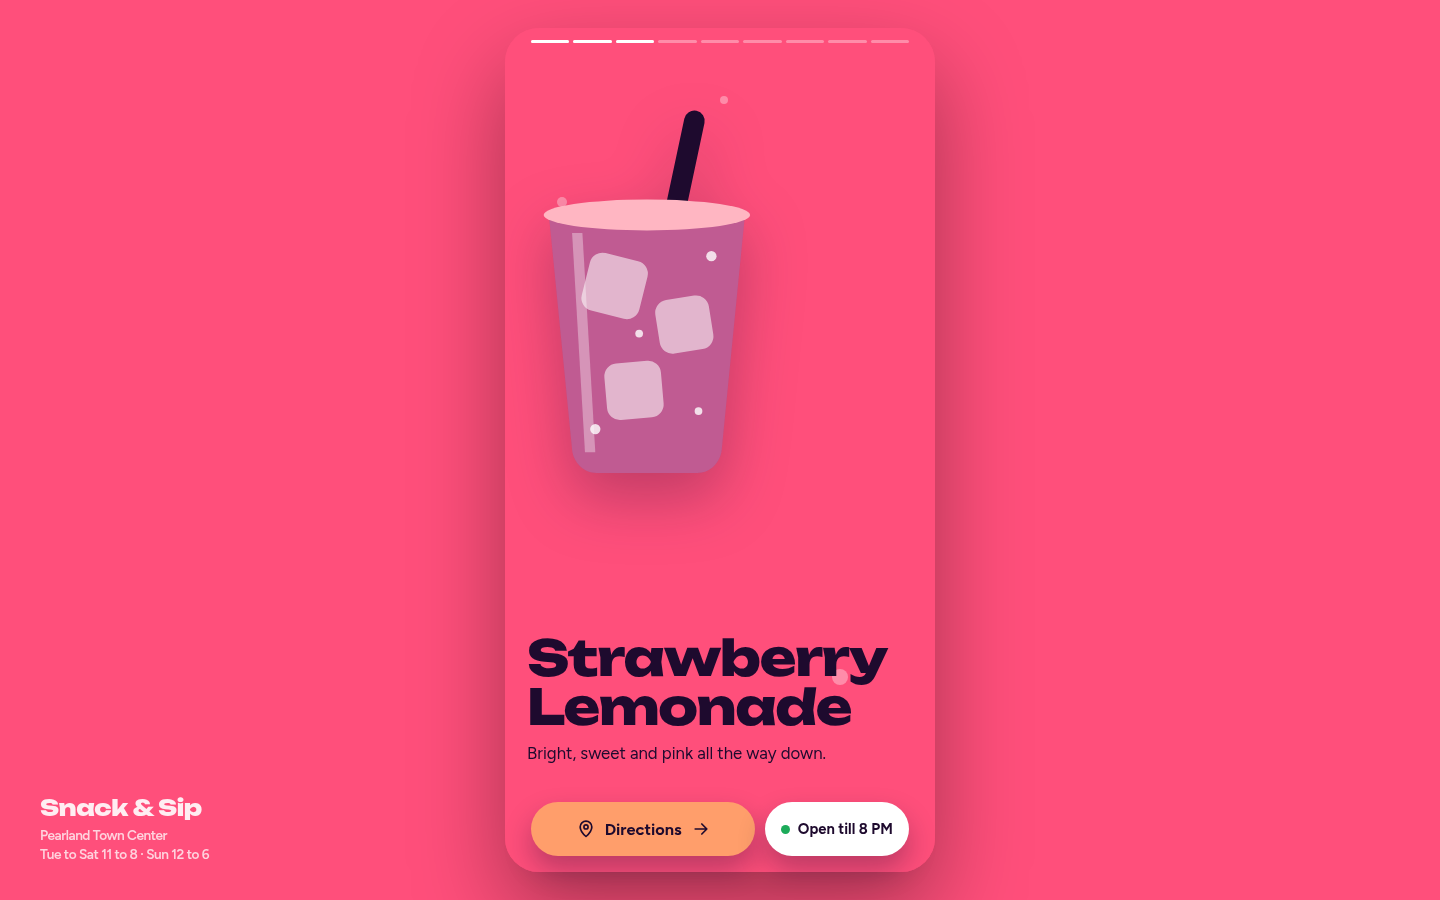
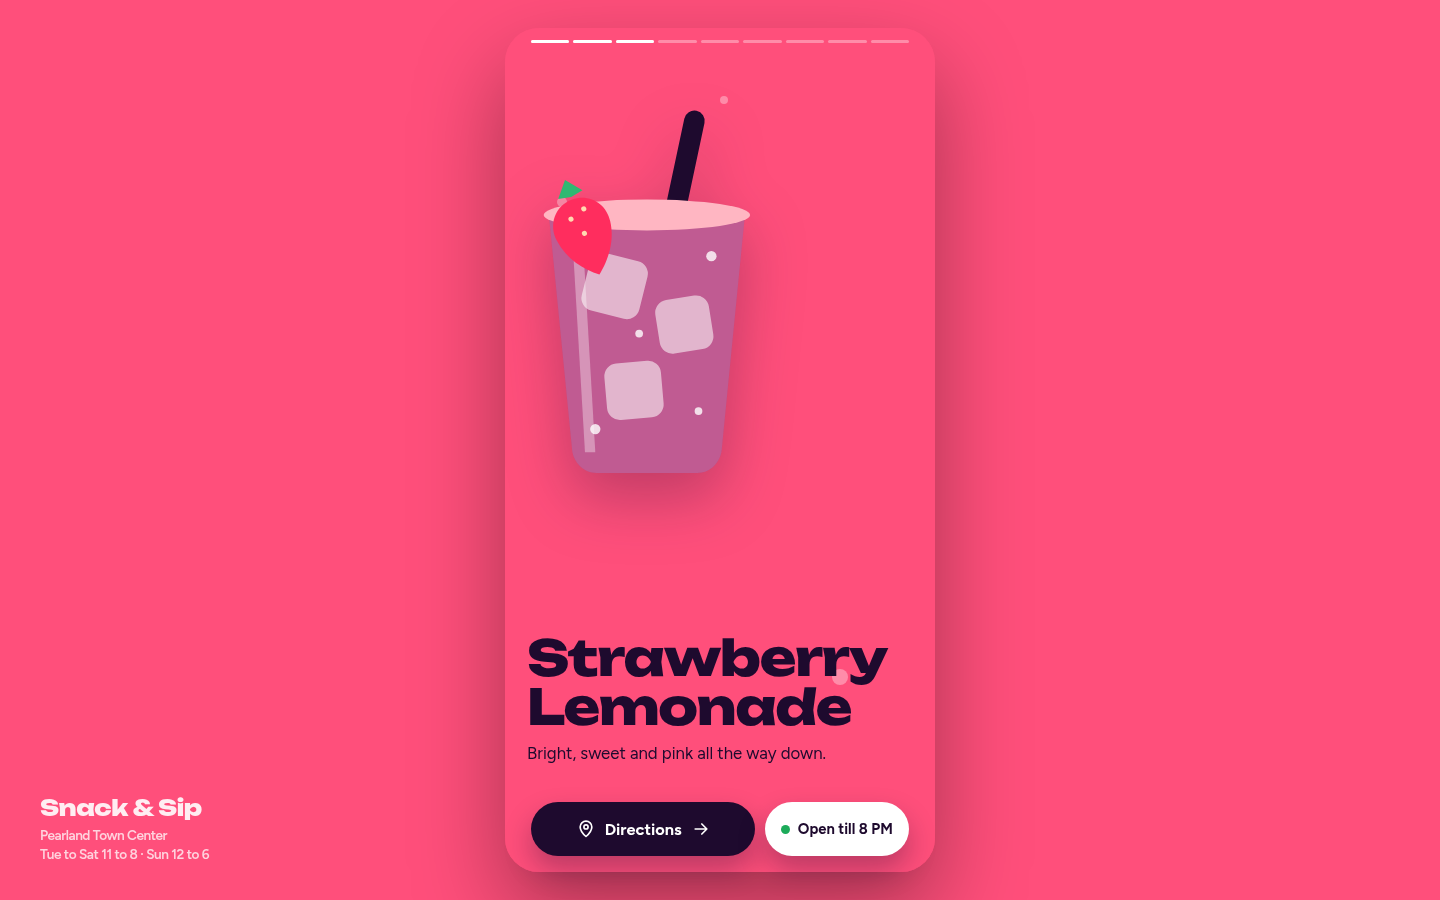
Snack & Sip: finish-review fixes (ink primary on bright slides, segment tint, garnishes, stickers, today tag)
Claude-Session: https://claude.ai/code/session_01JNpXyxWLgQiAqL5S6WbgCE

Changed region(s): [[0.3438, 0.8711, 0.5312, 0.9644], [0.375, 0.1867, 0.4375, 0.3111]]

diff --git a/snackandsip/index.html b/snackandsip/index.html
@@ -65,14 +65,13 @@ html{scrollbar-color:rgba(255,255,255,.45) transparent;scrollbar-width:thin}
 .hero .copy p strong{font-weight:700}
 .brand{position:absolute;top:28px;left:22px;z-index:4;display:flex;align-items:center;gap:10px;color:var(--paper);font-weight:700;text-decoration:none;font-size:.95rem}
 .brand img{width:34px;height:34px;border-radius:10px}
-.sound{position:absolute;top:28px;right:22px;z-index:4;width:36px;height:36px;display:grid;place-items:center;border-radius:50%;background:rgba(255,255,255,.14);color:var(--paper)}
-.sound svg{width:18px;height:18px}
 /* drink slides */
 .peach{--c:var(--peach);--btn:var(--ink);--btn-ink:var(--paper)}
 .berry{--c:var(--berry)}
 .mango{--c:var(--mango)}
 .sky{--c:var(--sky)}
-.coco{--c:var(--coco)}
+.coco{--c:var(--coco);--seg:var(--ink)}
+.berry,.mango,.sky,.coco{--btn:var(--ink);--btn-ink:var(--paper)}
 .cola{--c:var(--cola);--fg:var(--paper)}
 .ice{--c:var(--ice);--fg:var(--paper)}
 .slide h2{font-size:clamp(2.1rem,10.5vw,3.1rem)}
@@ -84,10 +83,11 @@ html{scrollbar-color:rgba(255,255,255,.45) transparent;scrollbar-width:thin}
 .cola,.ice{--straw:var(--berry)}
 .cola{--liq:#2a1510}
 /* final */
-.find{--c:var(--ink);--fg:var(--paper);--btn:var(--peach);--btn-ink:var(--ink);grid-template-rows:auto auto auto 1fr;gap:18px}
+.find{--c:var(--ink);--fg:var(--paper);--btn:var(--peach);--btn-ink:var(--ink);grid-template-rows:auto auto auto 1fr;gap:24px}
 .find footer{align-self:end}
 .find h2{font-size:clamp(2rem,9.5vw,2.8rem)}
-.sticker{background:var(--paper);color:var(--ink);border-radius:22px;padding:18px 20px;box-shadow:0 18px 34px rgba(0,0,0,.28);transform:rotate(var(--tilt,0deg))}
+.sticker{background:#fff3e6;color:var(--ink);border-radius:22px;padding:18px 20px;outline:4px solid #fff;box-shadow:0 18px 34px rgba(0,0,0,.3);transform:rotate(var(--tilt,0deg));position:relative}
+.sticker+.sticker{margin-top:-16px;z-index:1}
 
 .sticker h3{font-family:Unbounded,sans-serif;font-weight:800;font-size:1rem;letter-spacing:-.01em;display:flex;align-items:center;gap:.5em;margin-bottom:.5rem}
 .sticker h3 svg{width:18px;height:18px;flex:none}
@@ -98,15 +98,15 @@ html{scrollbar-color:rgba(255,255,255,.45) transparent;scrollbar-width:thin}
 .hours tr:first-child td{border-top:0}
 .hours td:last-child{text-align:right;font-weight:700;white-space:nowrap;padding-left:1em}
 .hours tr.now td{color:var(--ink)}
-.hours tr.now td:first-child::after{content:"today";margin-left:.5em;font-size:.75em;font-weight:700;color:var(--berry)}
+.hours tr.now td:first-child::after{content:"today";margin-left:.5em;padding-left:.9em;font-size:.75em;font-weight:700;color:var(--ink);background:radial-gradient(circle at .3em 55%,var(--berry) .25em,transparent .3em)}
 .find p.about{max-width:36ch}
 .find footer{font-size:.85rem;color:rgba(255,255,255,.72);padding-bottom:4px}
 .find footer a{color:var(--paper)}
 /* chrome */
 .progress,.bar{position:fixed;left:50%;translate:-50% 0;width:min(100%,var(--col));z-index:10;padding:0 14px;pointer-events:none}
 .progress{top:0;display:flex;gap:4px;padding-top:12px}
-.progress span{flex:1;height:3px;border-radius:3px;background:rgba(255,255,255,.35);overflow:hidden}
-.progress span::after{content:"";display:block;height:100%;width:100%;background:var(--paper);transform:scaleX(var(--p,0));transform-origin:left}
+.progress span{flex:1;height:3px;border-radius:3px;background:color-mix(in oklch,var(--seg,#fff) 35%,transparent);overflow:hidden}
+.progress span::after{content:"";display:block;height:100%;width:100%;background:var(--seg,#fff);transform:scaleX(var(--p,0));transform-origin:left}
 .bar{bottom:0;display:flex;gap:10px;align-items:stretch;padding-bottom:max(16px,env(safe-area-inset-bottom))}
 .bar>*{pointer-events:auto}
 .btn{flex:1 1 auto;display:inline-flex;align-items:center;justify-content:center;gap:.55em;min-height:54px;padding:0 1.2em;border-radius:999px;background:var(--btn);color:var(--btn-ink);font-weight:700;font-size:1.02rem;text-decoration:none;box-shadow:0 14px 28px rgba(30,10,46,.3);transition:transform .35s var(--ease),background .5s,color .5s}
@@ -144,7 +144,6 @@ html{scrollbar-color:rgba(255,255,255,.45) transparent;scrollbar-width:thin}
   <symbol id="i-clock" viewBox="0 0 24 24" fill="none" stroke="currentColor" stroke-width="2" stroke-linecap="round" stroke-linejoin="round"><circle cx="12" cy="12" r="9"/><path d="M12 7v5l3 2"/></symbol>
   <symbol id="i-arrow" viewBox="0 0 24 24" fill="none" stroke="currentColor" stroke-width="2" stroke-linecap="round" stroke-linejoin="round"><path d="M5 12h14M13 6l6 6-6 6"/></symbol>
   <symbol id="i-down" viewBox="0 0 24 24" fill="none" stroke="currentColor" stroke-width="2" stroke-linecap="round" stroke-linejoin="round"><path d="M12 5v14M6 13l6 6 6-6"/></symbol>
-  <symbol id="i-mute" viewBox="0 0 24 24" fill="none" stroke="currentColor" stroke-width="2" stroke-linecap="round" stroke-linejoin="round"><path d="M4 10v4h4l5 4V6L8 10H4Z"/><path d="M16 9l5 6M21 9l-5 6"/></symbol>
   <symbol id="i-star" viewBox="0 0 24 24" fill="currentColor"><path d="m12 2 2.9 6.3 6.9.7-5.2 4.6 1.5 6.8L12 17l-6.1 3.4 1.5-6.8L2.2 9l6.9-.7L12 2Z"/></symbol>
   <symbol id="cup" viewBox="0 0 220 300">
     <rect class="straw" x="128" y="4" width="16" height="120" rx="8" transform="rotate(12 136 64)"/>
@@ -158,8 +157,9 @@ html{scrollbar-color:rgba(255,255,255,.45) transparent;scrollbar-width:thin}
   <symbol id="cone" viewBox="0 0 220 300">
     <path fill="#fff" d="M60 150h100l-42 142c-2 6-10 6-12 0L60 150Z"/>
     <path fill="#fff" opacity=".6" d="M60 150h100l-6 22H66Z"/>
-    <circle class="liq" cx="110" cy="112" r="78"/>
-    <circle fill="#fff" opacity=".35" cx="84" cy="88" r="26"/>
+    <g class="liq"><circle cx="110" cy="118" r="70"/><circle cx="64" cy="128" r="36"/><circle cx="156" cy="128" r="36"/><circle cx="84" cy="78" r="34"/><circle cx="138" cy="78" r="34"/><circle cx="110" cy="62" r="30"/></g>
+    <g fill="#fff" opacity=".3"><circle cx="84" cy="78" r="12"/><circle cx="110" cy="62" r="10"/><circle cx="64" cy="128" r="12"/></g>
+    <path fill="#fff" opacity=".35" d="M60 150c20 14 80 14 100 0v10H60Z"/>
     <rect class="straw" x="130" y="30" width="14" height="110" rx="7" transform="rotate(18 137 85)"/>
   </symbol>
 </svg>
@@ -174,7 +174,6 @@ html{scrollbar-color:rgba(255,255,255,.45) transparent;scrollbar-width:thin}
     </div>
     <div class="scrim"></div>
     <a class="brand" href="#top"><img src="logo.svg" alt="" width="34" height="34">Snack &amp; Sip</a>
-    <span class="sound" aria-hidden="true"><svg><use href="#i-mute"/></svg></span>
     <div class="copy" data-depth="-24">
       <h1>Snack<br>&amp; Sip</h1>
       <p><strong>Pearland Town Center</strong> &middot; next to Great American Cookies, near the pavilion. Flavored lemonades, dirty sodas and snow cones.</p>
@@ -186,14 +185,14 @@ html{scrollbar-color:rgba(255,255,255,.45) transparent;scrollbar-width:thin}
     <svg class="layer cup" data-depth="70" viewBox="0 0 220 300" aria-hidden="true"><use href="#cup"/></svg>
     <div class="copy" data-depth="-24">
       <h2>Peach<br>Thriller</h2>
-      <p>The lemonade people come back for. Peach, lemon, lots of ice.</p>
-      <span class="badge"><svg><use href="#i-star"/></svg>Most asked for</span>
+      <p>Our popular peach lemonade. Peach, lemon, lots of ice.</p>
+      <span class="badge"><svg><use href="#i-star"/></svg>Popular</span>
     </div>
   </section>
 
   <section class="slide berry" data-c="#ff4f7b">
     <div class="layer bubbles" data-depth="30"><i style="left:12%;top:20%;width:10px;height:10px"></i><i style="left:76%;top:76%;width:16px;height:16px"></i><i style="left:50%;top:8%;width:8px;height:8px"></i></div>
-    <svg class="layer cup" data-depth="70" viewBox="0 0 220 300" aria-hidden="true"><use href="#cup"/></svg>
+    <svg class="layer cup" data-depth="70" viewBox="0 0 220 300" aria-hidden="true"><use href="#cup"/><g transform="translate(52 74) rotate(-20)"><path d="M0 0c-14 0-24 12-22 26 2 16 12 28 22 36 10-8 20-20 22-36C24 12 14 0 0 0Z" fill="#ff2d5e"/><path d="M-10-4 0-16l10 12-10 2Z" fill="#2fb872"/><g fill="#ffd9b0"><circle cx="-6" cy="14" r="2"/><circle cx="6" cy="10" r="2"/><circle cx="0" cy="28" r="2"/></g></g></svg>
     <div class="copy" data-depth="-24">
       <h2>Strawberry Lemonade</h2>
       <p>Bright, sweet and pink all the way down.</p>
@@ -211,7 +210,7 @@ html{scrollbar-color:rgba(255,255,255,.45) transparent;scrollbar-width:thin}
 
   <section class="slide sky" data-c="#4fc3ff">
     <div class="layer bubbles" data-depth="30"><i style="left:14%;top:10%;width:16px;height:16px"></i><i style="left:66%;top:72%;width:10px;height:10px"></i><i style="left:36%;top:46%;width:7px;height:7px"></i></div>
-    <svg class="layer cup" data-depth="70" viewBox="0 0 220 300" aria-hidden="true"><use href="#cup"/></svg>
+    <svg class="layer cup" data-depth="70" viewBox="0 0 220 300" aria-hidden="true"><use href="#cup"/><g fill="#dff3ff"><circle cx="78" cy="56" r="22"/><circle cx="104" cy="40" r="26"/><circle cx="132" cy="54" r="20"/><circle cx="100" cy="70" r="24"/></g><g fill="#fff" opacity=".7"><circle cx="92" cy="44" r="8"/><circle cx="120" cy="60" r="6"/></g></svg>
     <div class="copy" data-depth="-24">
       <h2>Blue Cotton Candy Lemonade</h2>
       <p>The one that turns heads across the food court.</p>
@@ -220,7 +219,7 @@ html{scrollbar-color:rgba(255,255,255,.45) transparent;scrollbar-width:thin}
 
   <section class="slide coco" data-c="#f1ebdd">
     <div class="layer bubbles" data-depth="30"><i style="left:10%;top:22%;width:12px;height:12px;background:var(--ink);opacity:.12"></i><i style="left:70%;top:70%;width:18px;height:18px;background:var(--ink);opacity:.12"></i></div>
-    <svg class="layer cup" data-depth="70" viewBox="0 0 220 300" aria-hidden="true"><use href="#cup"/></svg>
+    <svg class="layer cup" data-depth="70" viewBox="0 0 220 300" aria-hidden="true"><use href="#cup"/><g fill="#fff" stroke="#e8d9bf" stroke-width="2"><path d="M54 62c10-10 26-8 30 6-14 4-26 2-30-6Z"/><path d="M150 70c-8-12 2-26 16-22-2 14-8 22-16 22Z"/><path d="M96 48c12-6 26 2 24 16-14 0-22-6-24-16Z"/></g></svg>
     <div class="copy" data-depth="-24">
       <h2>Coconut Lemonade</h2>
       <p>Creamy, cool, a little bit beach.</p>
@@ -229,7 +228,7 @@ html{scrollbar-color:rgba(255,255,255,.45) transparent;scrollbar-width:thin}
 
   <section class="slide cola" data-c="#4a2a1f">
     <div class="layer bubbles" data-depth="30"><i style="left:20%;top:12%;width:12px;height:12px"></i><i style="left:60%;top:80%;width:9px;height:9px"></i><i style="left:86%;top:40%;width:16px;height:16px"></i></div>
-    <svg class="layer cup" data-depth="70" viewBox="0 0 220 300" aria-hidden="true"><use href="#cup"/></svg>
+    <svg class="layer cup" data-depth="70" viewBox="0 0 220 300" aria-hidden="true"><use href="#cup"/><path d="M36 92c20-12 40 10 60 0s40-12 60 0 24 18 24 18H34s-8-10 2-18Z" fill="#fff6ea"/><ellipse cx="110" cy="86" rx="80" ry="12" fill="#fff" opacity=".9"/></svg>
     <div class="copy" data-depth="-24">
       <h2>Dirty Sodas</h2>
       <p>Your soda, dressed up with syrups and cream. Pick a base, pick a flavor.</p>
@@ -250,11 +249,11 @@ html{scrollbar-color:rgba(255,255,255,.45) transparent;scrollbar-width:thin}
       <h2>Come find us</h2>
       <p class="about">A drink and snack stop inside Pearland Town Center. Grab a cup, grab a snack, keep strolling.</p>
     </div>
-      <div class="sticker" style="--tilt:-1.2deg">
+      <div class="sticker" style="--tilt:-2.5deg">
         <h3><svg><use href="#i-pin"/></svg>Where</h3>
         <address><a href="https://www.google.com/maps/dir/?api=1&destination=11200+Broadway+St+Suite+1370+Pearland+TX+77584" target="_blank" rel="noopener">11200 Broadway St., Suite 1370<br>Pearland, TX 77584</a><br><span style="font-size:.95rem">Next to Great American Cookies, near the pavilion.</span></address>
       </div>
-      <div class="sticker" style="--tilt:1deg">
+      <div class="sticker" style="--tilt:1.5deg">
         <h3><svg><use href="#i-clock"/></svg>Hours</h3>
         <table class="hours">
           <tr data-d="1"><td>Monday</td><td>Closed</td></tr>
@@ -280,8 +279,8 @@ html{scrollbar-color:rgba(255,255,255,.45) transparent;scrollbar-width:thin}
   const v=$('video'), poster=$('.poster');
   if(v){
     v.addEventListener('canplay',()=>{poster.style.visibility='hidden'},{once:true});
-    v.addEventListener('error',()=>{v.remove();$('.sound')?.remove()},true);
-    if(reduce){v.removeAttribute('autoplay');v.pause();v.remove();$('.sound')?.remove()}
+    v.addEventListener('error',()=>{v.remove()},true);
+    if(reduce){v.removeAttribute('autoplay');v.pause();v.remove()}
     else{const p=v.play();p&&p.catch&&p.catch(()=>{})}
   }
   /* hours (America/Chicago) */
@@ -310,6 +309,7 @@ html{scrollbar-color:rgba(255,255,255,.45) transparent;scrollbar-width:thin}
     root.style.setProperty('--stage',s.dataset.c);
     root.style.setProperty('--btn',cs.getPropertyValue('--btn'));
     root.style.setProperty('--btn-ink',cs.getPropertyValue('--btn-ink'));
+    root.style.setProperty('--seg',cs.getPropertyValue('--seg')||'#fff');
     theme.content=s.dataset.c;
   }),{root:mq.matches?phone:null,threshold:.55});slides.forEach(s=>io.observe(s))};
   watch();mq.addEventListener('change',()=>{watch();update()});
